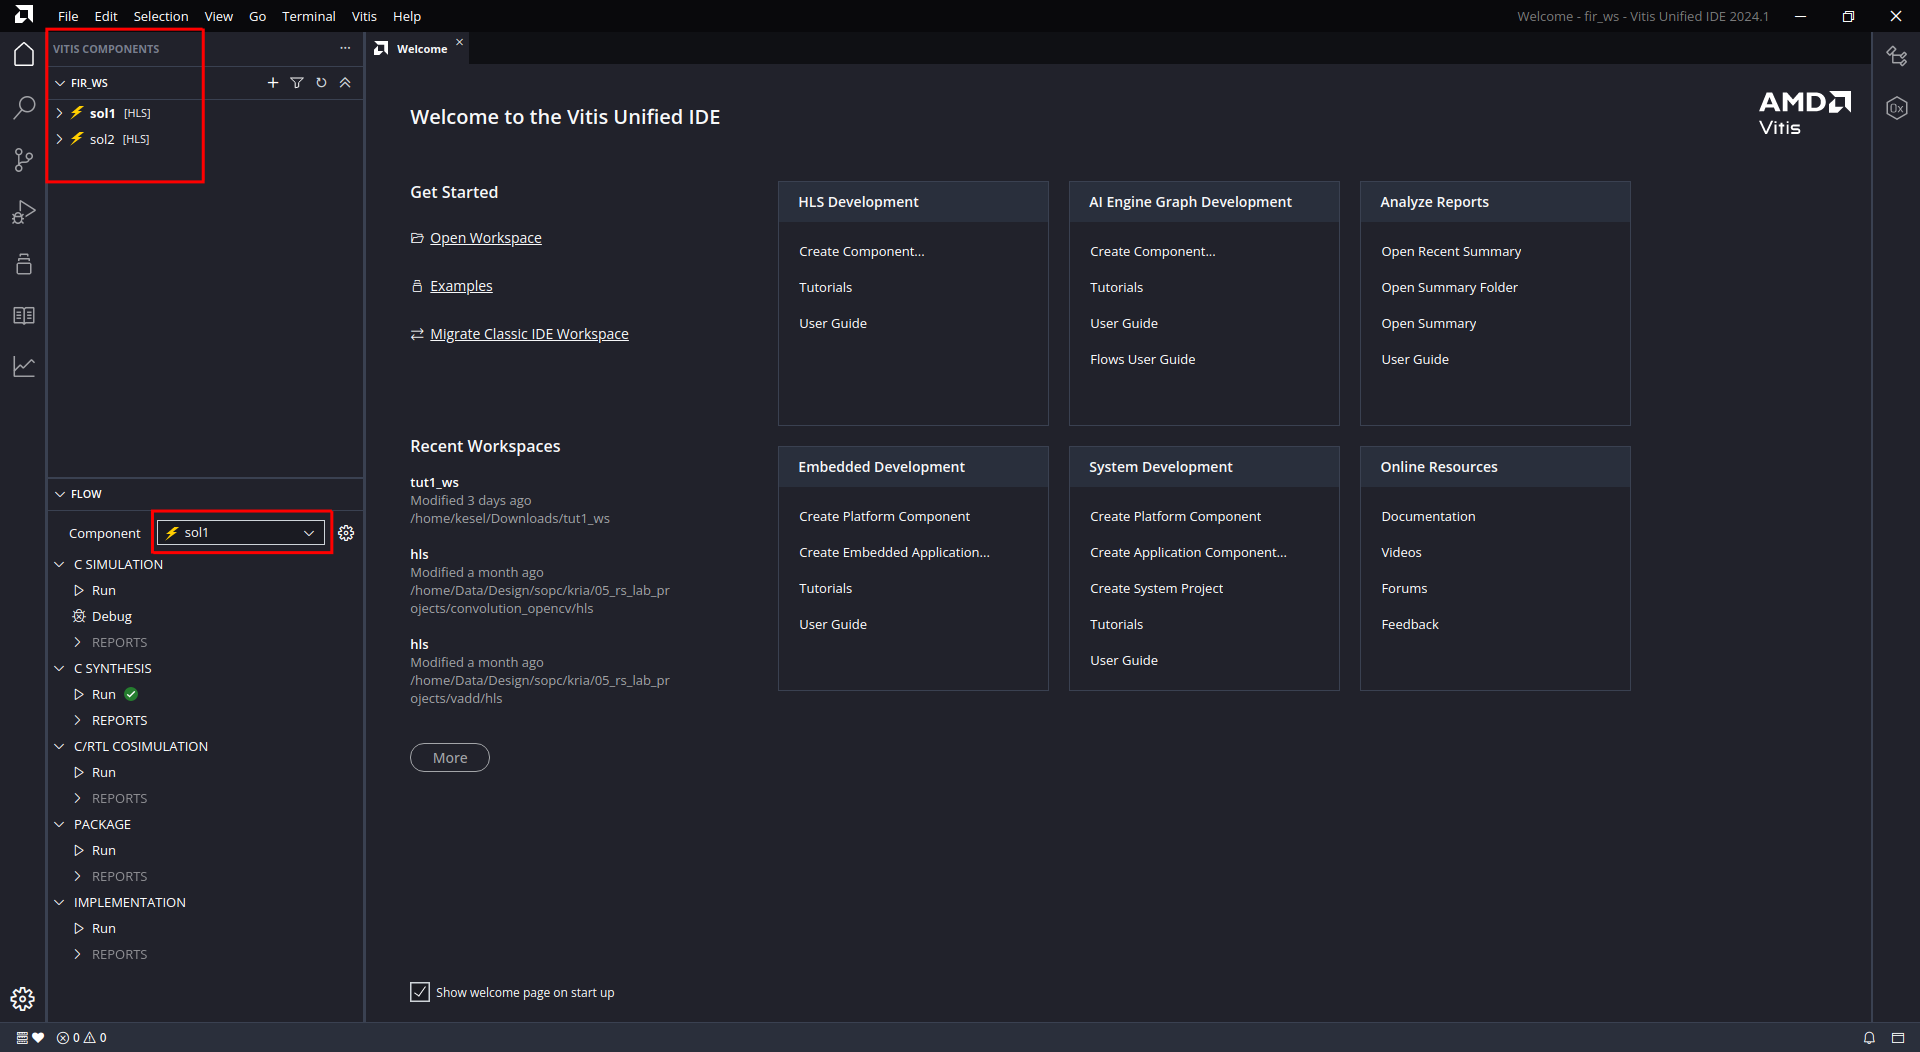
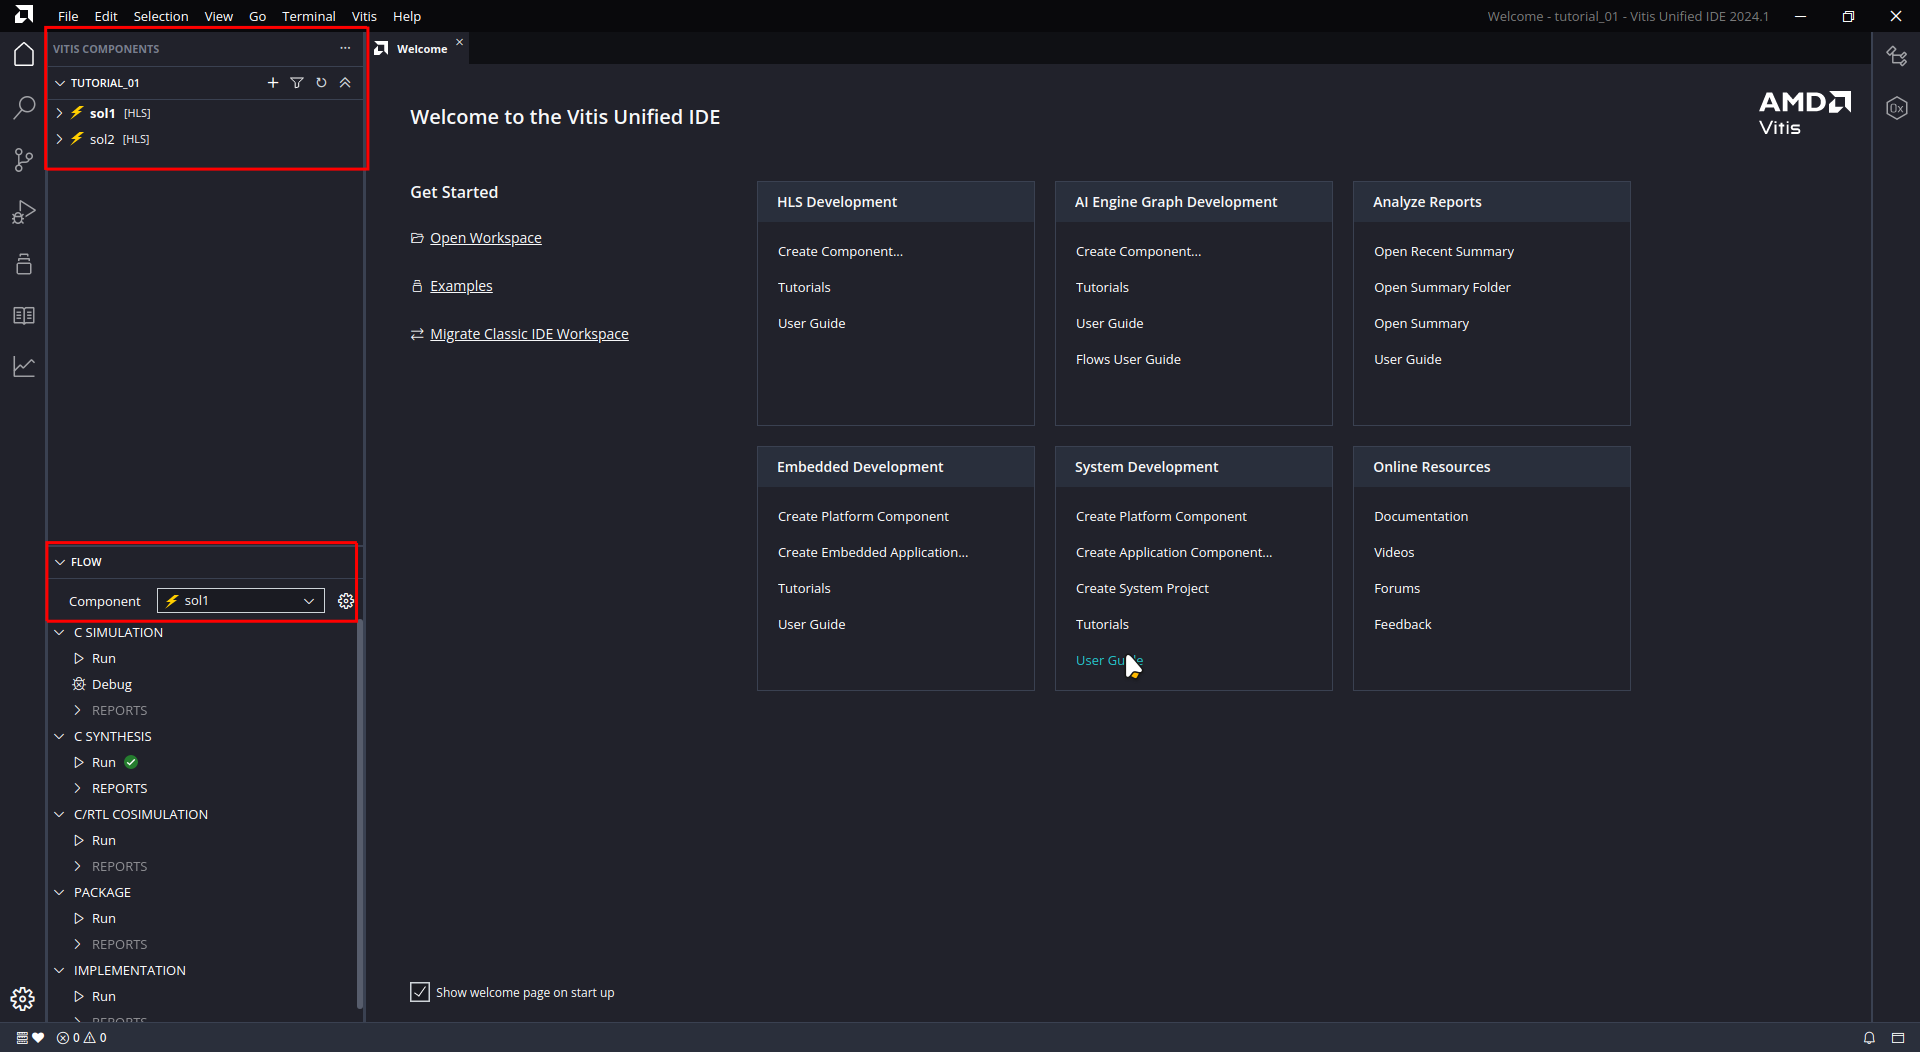
Added content

diff --git a/vitis_hls/tutorial_01/tutorial_01_b.md b/vitis_hls/tutorial_01/tutorial_01_b.md
@@ -8,11 +8,11 @@
 
 ---
 ## Running the bash scripts
-* First download the complete folder `reference_files` to your computer and rename the folder to `fir_ws`. This folder will later on be your workspace which you will open in the Vitis GUI.
-* We will first explain the folder structure of the workspace folder `fir_ws`. In the workspace folder you find a bash script `run_demo.sh` which basically starts the two bash scripts `sol1.sh` and `sol2.sh` in the sub-folders `sol1` and `sol2`. These sub-folders hold the two variants (which are in the Vitis terminology two _components_).
+* First download the complete folder `reference_files` to your computer and rename the folder to `tutorial_01`. This folder will later on be your workspace which you will open in the Vitis GUI.
+* We will first explain the folder structure of the workspace folder `tutorial_01`. In the workspace folder you find a bash script `run_demo.sh` which basically starts the two bash scripts `sol1.sh` and `sol2.sh` in the sub-folders `sol1` and `sol2`. These sub-folders hold the two variants or solutions (which are in the Vitis terminology two _components_).
 
 ```
-fir_ws
+tutorial_01
     run_demo.sh
 	|-src
         ... (sources)
@@ -25,7 +25,7 @@ fir_ws
 		sol2_config.cfg
         sol2.sh
 ```
-* If you look into the bash script `sol1.sh` (`sol2.sh` is basically the same for `sol2`) you will find the following code. The first line says that this is a script to be executed as bash shell script. The second line sources the necessary settings from the Vitis installation. In the third line Vitis HLS is executed in script mode and with the `--config` switch we tell Vitis to use the configuration file. The last switch `--work_dir` specifies that this directory should be used for all output of Vitis. Do not confuse this directory with the Vitis workspace directory (which is in fact a bit confusing) which is the root directory `fir_ws` in which we have the two components. 
+* If you look into the bash script `sol1.sh` (`sol2.sh` is basically the same for `sol2`) you will find the following code. The first line says that this is a script to be executed as bash shell script. The second line sources the necessary settings from the Vitis installation. In the third line Vitis HLS is executed in script mode and with the `--config` switch we tell Vitis to use the configuration file, which can be found in the same folder. The last switch `--work_dir` specifies that this directory should be used for all output of Vitis. Do not confuse this directory with the Vitis workspace directory (which is in fact a bit confusing) which is the root directory `tutorial_01` in which we have the two components. 
  
 ```
 #!/bin/bash
@@ -34,10 +34,32 @@ v++ -c --mode hls --config ./sol1_config.cfg --work_dir sol1_work
 ```
 
 * Before you can run the shell scripts you have to make them executable with `sudo chmod a+x run_demo.sh` (in a Linux terminal) and the same also for the two sub-scripts `sol1.sh` and `sol2.sh`.
-* Then go back to the workspace directory `fir_ws.sh` and execute to top-level script with `./run_demo.sh`. You should now see the ouput of Vitis running. Basically the HLS step is executed for both variants.
-* If Vitis is finished open the Vitis GUI. On the Welcome page under _Get Started_ push the `Open Workspace` button. Navigate to the workspace folder `fir_ws` and select it. Now you should see the opened workspace as in the following image. In the _Vitis Components Explorer_ you can see now two components `sol1` and `sol2`, `sol1` is selected in the _Flow Navigator_. For both components `C SYNTHESIS` has already been executed. 
+* Then go back to the workspace directory `tutorial_01` and execute the top-level script with `./run_demo.sh` (in a Linux terminal). You should now see the ouput of Vitis running. Basically the HLS step is executed for both variants.
+* If Vitis is finished open the Vitis GUI. On the Welcome page under _Get Started_ push the `Open Workspace` button. Navigate to the workspace folder `tutorial_01` and select it. Now you should see the opened workspace as in the following image. In the _Vitis Components Explorer_ you can see now two components `sol1` and `sol2`, `sol1` is selected in the _Flow Navigator_. For both components `C SYNTHESIS` has already been executed. 
 
 ![Vitis GUI with opened workspace](images/hls_30.png)
  
 ---
-## 
+## Comparing both solutions
+* When you executed the bash scripts two components have been created from the same source code, which we will call "solutions". The difference between the two solutions is defined in the configurations files. 
+* Now open the synthesis report of solution `sol1` in the _Flow Navigator_ under _C SYNTHESIS_ as shown in the next image. 
+
+![Vitis GUI with solution 1 opened](images/hls_31.png)
+
+* If you compare the results with the synthesis results of [tutorial 1](tutorial_01.md#c-synthesis) you may notice that we now have a much longer latency and interval. This is a result of a different setting in the configuration file. 
+* Open the configuration file of `sol1` by double clicking on the file name in the _Vitis Components Explorer_ as shown in the next image. 
+
+![Vitis GUI config file](images/hls_32.png)
+
+* When you scroll down on the left side to the the entry compile you can see compilation options. Scroll down on the right side until you see the entry `compile.pipeline_loops`. This is set to `0` which means that the loop will not be pipelined. Normally loops are automatically pipelined, which has led to the optimized results in [tutorial 1](tutorial_01.md#c-synthesis). Although it absolutely makes sense to pipeline loops, by switching off this setting you can study what would be the result if loops are not pipelined and what you can gain when you pipeline the loops by setting this to `1`, which is the default.
+* With the symbol marked in red in the next image you can switch between the text version of the configuration file and the rendered graphical version from the previous image. You can see that the compile option discussed previously is stored as `syn.compile.pipeline_loops=0`. Every change you make in the rendered version will be immediately stored in the configuration file `sol1_config.cfg`, which means that you can enter the options in the file editor directly. The configuration file contains every option you entered and therefore is one of the most important file besides the C code files.  
+
+![Vitis GUI config file text](images/hls_33.png)
+
+* Now open the component `sol2` in the _Flow Navigator_. When you compare this solution to `sol1` and to the variant in [tutorial 1](tutorial_01.md#c-synthesis) you may notice that the loop is now pipelined, which leads to a considerable improvement in latency and interval but in [tutorial 1](tutorial_01.md#c-synthesis) we still have a better interval.  
+
+![Vitis GUI sol 2](images/hls_34.png)
+
+* The difference to [tutorial 1](tutorial_01.md#c-synthesis) can be explained if you look into the configuration file as shown in the next image (shown in text mode). There is an option `syn.compile.enable_auto_rewind=0` which disables the so-called _rewind_ option for pipelined loops (see https://docs.amd.com/r/en-US/ug1399-vitis-hls/Rewinding-Pipelined-Loops-for-Performance). This was enabled by default in [tutorial 1](tutorial_01.md#c-synthesis) and enables a better interval, which means that new input values can be applied earlier to the component. But, as we discussed in [tutorial 1](tutorial_01.md#crtl-cosimulation) there may be problems in the interfacing leading in sub-optimal operation of the component. 
+
+![Vitis GUI sol 2 config](images/hls_35.png)
